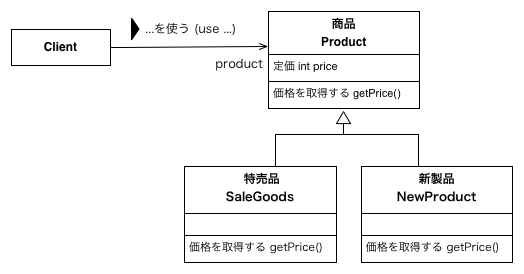
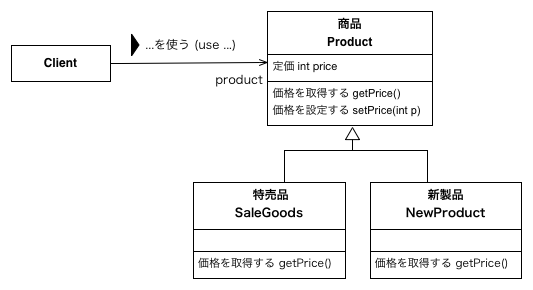
revise a exerceise: price

Changed region(s): [[0.0, 0.0292, 1.0, 0.9635], [0.0305, 0.0876, 0.2137, 0.1168]]

diff --git a/assets/src/product.cpp b/assets/src/product.cpp
@@ -9,6 +9,11 @@ class Product
 protected:
     int price;
 public:
+    void SetPrice(int p)
+    {
+        this->price = p;
+    }
+
     virtual int GetPrice()
     {
         return price;
@@ -16,3 +21,11 @@ public:
 
     virtual ~Product() {}
 };
+
+int main()
+{
+    Product* product = new Product();
+    product->SetPrice(100);
+    cout << "商品の価格は" << product->GetPrice() << "円" << endl;
+    return 0;
+}
